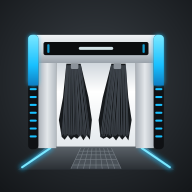
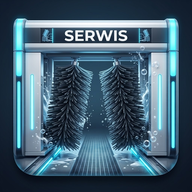
Ikona aplikacji: nowa grafika (Serwis, portal ze szczotkami); osobna ikona maskable w bezpiecznej strefie; sw v74
Claude-Session: https://claude.ai/code/session_01MnWYxvni9uVPtFrmcaCfPr

diff --git a/index.html b/index.html
@@ -1080,7 +1080,7 @@ function wiecej() {
     '<button onclick="smsUstaw()"><div class="ch">' + I('phone') + '</div><b>SMS z WebCon</b><span>MacroDroid → zlecenia</span></button>' +
     k('wykresy', 'chart', 'Wykresy', 'szczotki, zaliczka, zadania') +
     '<button onclick="window.open(\'' + jsq(D.arkusz) + '\',\'_blank\')"><div class="ch">' + I('doc') + '</div><b>Tabela</b><span>arkusz z danymi</span></button>' +
-    '<button onclick="animacje()"><div class="ch">' + I('spark') + '</div><b>Animacje</b><span>' + (LS.get('anim') === '0' ? 'wyłączone · dotknij, by włączyć' : 'włączone · dotknij, by wyłączyć') + (document.documentElement.classList.contains('lekki') ? ' · tryb lekki' : '') + ' · v73</span></button>' +
+    '<button onclick="animacje()"><div class="ch">' + I('spark') + '</div><b>Animacje</b><span>' + (LS.get('anim') === '0' ? 'wyłączone · dotknij, by włączyć' : 'włączone · dotknij, by wyłączyć') + (document.documentElement.classList.contains('lekki') ? ' · tryb lekki' : '') + ' · v74</span></button>' +
     '</div>';
 }
 // 16.11.2026: pierścienie i mruganie można wyłączyć (słabszy tablet, oszczędzanie baterii)

diff --git a/sw.js b/sw.js
@@ -1,6 +1,6 @@
 // Serwis myjni – service worker: strona zawsze świeża z sieci (no-cache = zawsze sprawdza, GitHub Pages trzyma pliki w cache 10 min), kopia tylko na wypadek braku internetu.
 // 15.11.2026: „Udostępnij → Serwis myjni” (share_target): POST …/udostepnij → plik do cache „udostepnione”, aplikacja wysyła go do Apps Script (udostepnij.js).
-const CACHE = 'myjnie-v73';
+const CACHE = 'myjnie-v74';
 self.addEventListener('install', e => self.skipWaiting());
 self.addEventListener('activate', e => e.waitUntil(self.clients.claim()));
 self.addEventListener('fetch', e => {
